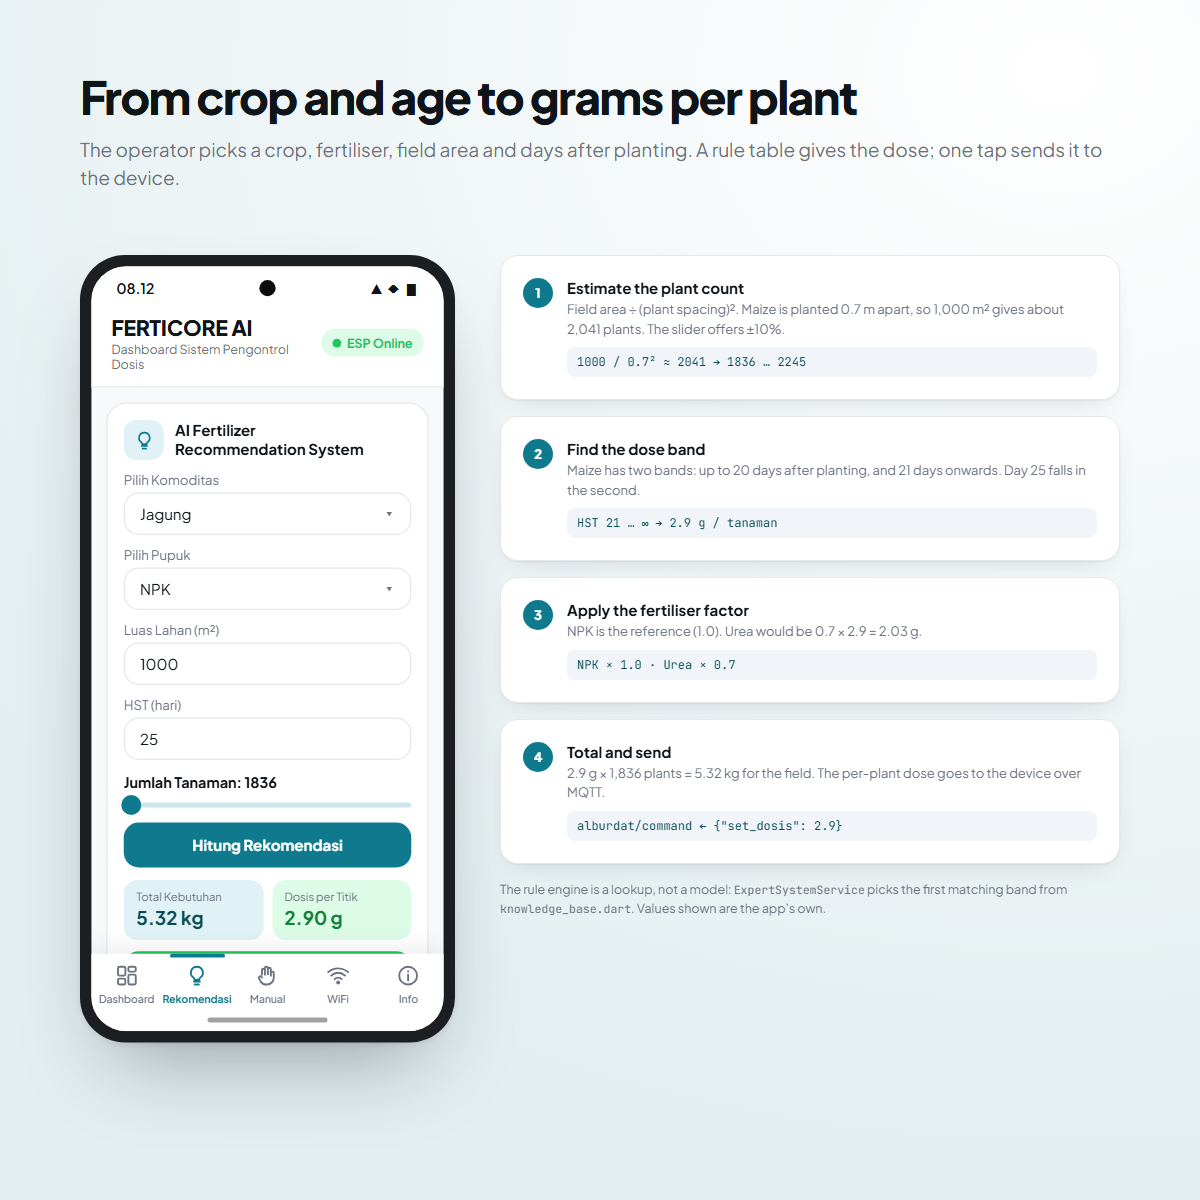
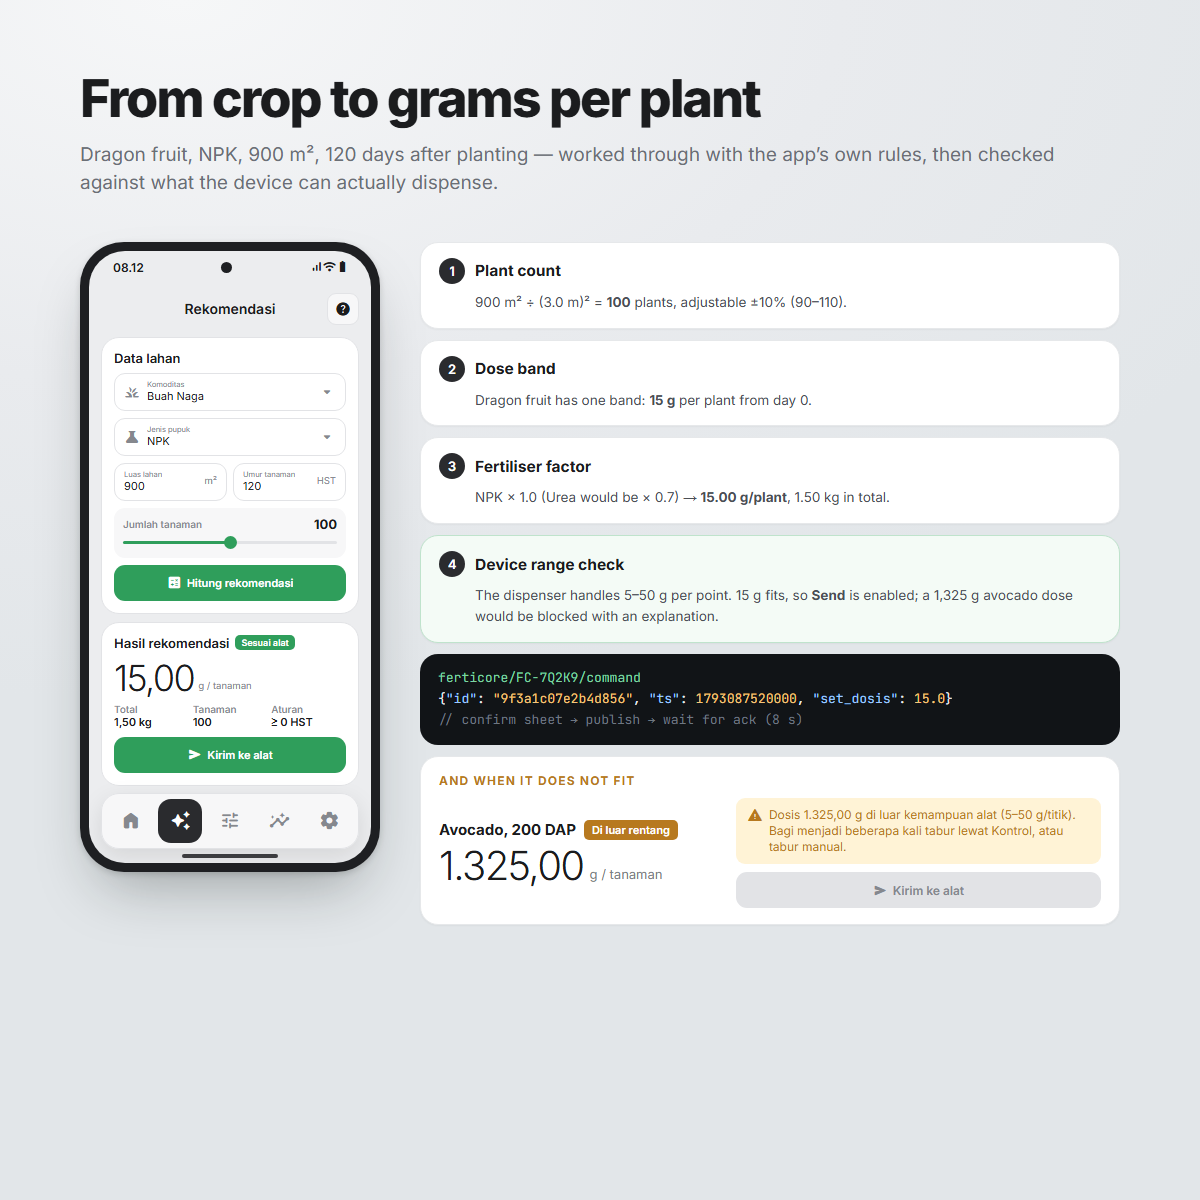
Mengubah asset gambar proyek ferticore

diff --git a/src/data/projects.ts b/src/data/projects.ts
@@ -661,64 +661,70 @@ export const projects: Project[] = [
     repo: 'https://github.com/aamnnr/ferticore-app',
     overview: {
       en: [
-        'Fertiliser is expensive and easy to waste. The rig meters it out by commodity instead of by habit: the operator picks what is being grown, the device works out a dose, and the motor runs for exactly as long as that dose requires.',
-        'The architecture is deliberately server-less. The Flutter app and the ESP32 talk to each other through a public MQTT broker as two peers — there is no back end to keep alive, no database bill, and no single machine whose failure takes the field offline. Operating statistics live in the device’s own EEPROM, so a phone that has been away for a week still finds its history intact.',
-        'The trade is that the message contract has to be exact. Both halves agree on a JSON shape and a topic layout, and every command the app sends has to be one the firmware already understands. Writing both sides is what made that tolerable.',
+        'Fertiliser is expensive and easy to waste. The rig meters it out by commodity instead of by habit: the operator picks what is being grown, the app works out a dose per plant, and the device dispenses exactly that at every point.',
+        'The architecture is still deliberately server-less. The Flutter app and the ESP32 talk to each other through an MQTT broker as two peers — no back end to keep alive, no database bill, and operating statistics stay in the device’s own EEPROM. What changed in version 2 is that the door is no longer open. The first version used a public broker with fixed topics shared by every unit, so anyone who knew the topic could change the dose. Now the broker is configurable, TLS is on by default, credentials sit in the phone’s Keystore or Keychain, and each device lives under its own topic.',
+        'The second change is that a command is not finished when the broker accepts it. Every command carries a random id and a timestamp; the app shows a summary first, publishes, then waits for a status message that echoes the id back. If none arrives within eight seconds the operator is told the command was sent but not confirmed — instead of assuming it worked. The old JSON keys were kept, so the firmware only has to move topics and start acknowledging.',
       ],
       id: [
-        'Pupuk itu mahal dan mudah terbuang. Perangkat ini menakarnya berdasarkan komoditas, bukan kebiasaan: operator memilih tanaman yang digarap, perangkat menghitung dosis, lalu motor berputar tepat selama dosis itu membutuhkannya.',
-        'Arsitekturnya sengaja tanpa server. Aplikasi Flutter dan ESP32 saling berbicara lewat broker MQTT publik sebagai dua peer — tidak ada back end yang harus dijaga tetap hidup, tidak ada tagihan basis data, dan tidak ada satu mesin yang kematiannya membuat lahan terputus. Statistik operasional disimpan di EEPROM perangkat, sehingga ponsel yang seminggu tidak dibuka tetap menemukan riwayatnya utuh.',
-        'Konsekuensinya, kontrak pesan harus tepat. Kedua sisi menyepakati bentuk JSON dan susunan topik, dan setiap perintah yang dikirim aplikasi harus perintah yang memang sudah dimengerti firmware. Menulis kedua sisinya sendiri yang membuat itu bisa dijalani.',
+        'Pupuk itu mahal dan mudah terbuang. Perangkat ini menakarnya berdasarkan komoditas, bukan kebiasaan: operator memilih tanaman yang digarap, aplikasi menghitung dosis per tanaman, lalu alat menabur tepat sebanyak itu di setiap titik.',
+        'Arsitekturnya tetap sengaja tanpa server. Aplikasi Flutter dan ESP32 saling berbicara lewat broker MQTT sebagai dua peer — tidak ada back end yang harus dijaga, tidak ada tagihan basis data, dan statistik operasional tetap tersimpan di EEPROM perangkat. Yang berubah di versi 2: pintunya tidak lagi terbuka. Versi pertama memakai broker publik dengan topik tetap yang sama untuk semua unit, sehingga siapa pun yang tahu topiknya bisa mengubah dosis. Kini broker bisa diatur, TLS aktif bawaan, kredensial disimpan di Keystore atau Keychain ponsel, dan setiap alat punya topiknya sendiri.',
+        'Perubahan kedua: perintah belum selesai hanya karena broker menerimanya. Setiap perintah membawa id acak dan timestamp; aplikasi menampilkan ringkasan dulu, mengirim, lalu menunggu pesan status yang memantulkan id tersebut. Jika tidak datang dalam delapan detik, operator diberi tahu bahwa perintah terkirim tetapi belum dikonfirmasi — bukan dianggap berhasil. Kunci JSON lama dipertahankan, jadi firmware cukup pindah topik dan mulai mengirim konfirmasi.',
       ],
     },
     features: {
       en: [
         'Rule-based dose recommendation for 13 crops by days after planting, for NPK or Urea, with the plant count estimated from field area and spacing.',
-        'Live device status: motor state, current dose, and accumulated statistics.',
-        'Manual override, so the operator can always overrule the recommendation.',
-        'On-device OLED readout for when the phone is not to hand.',
-        'Statistics persisted in EEPROM and survive power loss.',
+        'Doses outside what the dispenser can deliver (5–50 g per point) are blocked with an explanation instead of being sent.',
+        'Every command is reviewed in a summary sheet and confirmed by the device, with a clear “sent, not confirmed yet” state.',
+        'Configurable broker with TLS and credentials; the password is kept in Keystore/Keychain and never shown again.',
+        'Live device status — online, offline, disconnected or not set up — with automatic reconnect that backs off but never gives up.',
+        'Usage statistics from the device with a live chart, plus manual dosing for when the operator overrules the recommendation.',
+        'Onboarding, a searchable in-app guide and FAQ, and a help button on every screen that opens its own section.',
         'One Flutter codebase serving Android, iOS, web and desktop.',
       ],
       id: [
         'Rekomendasi dosis berbasis aturan untuk 13 komoditas menurut HST, untuk NPK atau Urea, dengan jumlah tanaman diperkirakan dari luas lahan dan jarak tanam.',
-        'Status perangkat langsung: keadaan motor, dosis berjalan, dan statistik terkumpul.',
-        'Kendali manual, sehingga operator selalu bisa menolak rekomendasi.',
-        'Tampilan OLED di perangkat untuk saat ponsel tidak di tangan.',
-        'Statistik tersimpan di EEPROM dan bertahan saat listrik padam.',
+        'Dosis di luar kemampuan alat (5–50 g per titik) diblokir dengan penjelasan, bukan dikirim.',
+        'Setiap perintah ditinjau lewat lembar ringkasan dan dikonfirmasi alat, dengan status “terkirim, belum dikonfirmasi” yang jelas.',
+        'Broker bisa diatur dengan TLS dan kredensial; password disimpan di Keystore/Keychain dan tidak pernah ditampilkan ulang.',
+        'Status alat langsung — online, offline, terputus, atau belum diatur — dengan reconnect otomatis yang makin jarang tetapi tidak pernah menyerah.',
+        'Statistik pemakaian dari alat dengan grafik langsung, serta dosis manual saat operator ingin menolak rekomendasi.',
+        'Onboarding, panduan dan FAQ dalam aplikasi yang bisa dicari, serta tombol bantuan di setiap layar yang membuka bagiannya sendiri.',
         'Satu basis kode Flutter melayani Android, iOS, web, dan desktop.',
       ],
     },
     notes: [
-      { k: { en: 'Broker', id: 'Broker' }, v: { en: 'Public MQTT broker on port 1883 (EMQX / Mosquitto)', id: 'Broker MQTT publik pada port 1883 (EMQX / Mosquitto)' } },
+      { k: { en: 'Broker', id: 'Broker' }, v: { en: 'Configurable; TLS on 8883 (WSS 8084 on web), username/password', id: 'Bisa diatur; TLS di 8883 (WSS 8084 di web), username/password' } },
+      { k: { en: 'Topics', id: 'Topik' }, v: { en: 'ferticore/<device-id>/status and /command, one device per topic', id: 'ferticore/<id-alat>/status dan /command, satu alat per topik' } },
+      { k: { en: 'Commands', id: 'Perintah' }, v: { en: 'Random id + timestamp, acknowledged by the device within 8 s', id: 'Id acak + timestamp, dikonfirmasi alat dalam 8 dtk' } },
       { k: { en: 'State', id: 'Status' }, v: { en: 'Provider for app state; EEPROM for device statistics', id: 'Provider untuk status aplikasi; EEPROM untuk statistik perangkat' } },
       { k: { en: 'Back end', id: 'Back end' }, v: { en: 'None — app and device are MQTT peers', id: 'Tidak ada — aplikasi dan perangkat adalah peer MQTT' } },
     ],
     media: [
       {
         src: { en: 'projects/ferticore/en/01-cover.png', id: 'projects/ferticore/id/01-cover.png' }, width: 1600, height: 900,
-        alt: { en: 'FertiCore title with the dashboard on a phone and in a desktop browser, showing a 2.90 g dose and usage statistics.', id: 'Judul FertiCore dengan dasbor di ponsel dan browser desktop, menampilkan dosis 2,90 g dan statistik pemakaian.' },
+        alt: { en: 'FertiCore title with the v2 dashboard on a phone and in a desktop browser: a 15.0 g active dose, device status tiles and a secured broker.', id: 'Judul FertiCore dengan dasbor v2 di ponsel dan browser desktop: dosis aktif 15,0 g, ubin status alat, dan broker yang diamankan.' },
         caption: { en: 'One Flutter codebase on phone, web and desktop. Mockups redrawn from the app with sample values; the app UI is in Indonesian.', id: 'Satu basis kode Flutter di ponsel, web, dan desktop. Mockup digambar ulang dari aplikasi dengan nilai contoh.' },
       },
       {
         src: { en: 'projects/ferticore/en/02-recommendation.png', id: 'projects/ferticore/id/02-recommendation.png' }, width: 1200, height: 1200,
-        alt: { en: 'The recommendation screen for maize, NPK, 1,000 m² and 25 days after planting, next to four steps: plant count, dose band, fertiliser factor, and the MQTT command.', id: 'Layar rekomendasi untuk jagung, NPK, 1.000 m², dan 25 HST, di samping empat langkah: jumlah tanaman, rentang dosis, faktor pupuk, dan perintah MQTT.' },
-        caption: { en: 'From crop and age to grams per plant, worked through with the app’s own numbers.', id: 'Dari tanaman dan umur ke gram per tanaman, dihitung dengan angka dari aplikasi.' },
+        alt: { en: 'The recommendation screen for dragon fruit, NPK, 900 m² and 120 days after planting, next to four steps ending in a device range check, the MQTT command, and a blocked 1,325 g avocado dose.', id: 'Layar rekomendasi untuk buah naga, NPK, 900 m², dan 120 HST, di samping empat langkah yang diakhiri cek rentang alat, perintah MQTT, dan dosis alpukat 1.325 g yang diblokir.' },
+        caption: { en: 'From crop and age to grams per plant — and a dose the device cannot dispense is blocked, not sent.', id: 'Dari tanaman dan umur ke gram per tanaman — dan dosis yang tidak sanggup ditabur alat diblokir, bukan dikirim.' },
       },
       {
         src: { en: 'projects/ferticore/en/03-knowledge-base.png', id: 'projects/ferticore/id/03-knowledge-base.png' }, width: 1200, height: 1200,
-        alt: { en: 'Table of 13 crops with planting spacing and dose bands by days after planting, from maize to sugarcane.', id: 'Tabel 13 komoditas dengan jarak tanam dan rentang dosis menurut HST, dari jagung hingga tebu.' },
-        caption: { en: 'The full knowledge base: one row per crop, one band per growth stage.', id: 'Knowledge base lengkap: satu baris per komoditas, satu rentang per tahap tumbuh.' },
+        alt: { en: 'Table of 13 crops with planting spacing and dose bands by days after planting; bands within the device’s 5–50 g range are highlighted green.', id: 'Tabel 13 komoditas dengan jarak tanam dan rentang dosis menurut HST; rentang yang masuk kemampuan alat 5–50 g ditandai hijau.' },
+        caption: { en: 'The full knowledge base: one row per crop, one band per growth stage, with no gaps between stages.', id: 'Knowledge base lengkap: satu baris per komoditas, satu rentang per tahap tumbuh, tanpa celah antar-tahap.' },
       },
       {
         src: { en: 'projects/ferticore/en/04-mqtt.png', id: 'projects/ferticore/id/04-mqtt.png' }, width: 1200, height: 1200,
-        alt: { en: 'Diagram: Flutter app, public MQTT broker and ESP32 as peers, with the status payload, the three commands, and the three connection states.', id: 'Diagram: aplikasi Flutter, broker MQTT publik, dan ESP32 sebagai peer, dengan payload status, tiga perintah, dan tiga status koneksi.' },
-        caption: { en: 'No server in the middle — and a clear difference between “broker reachable” and “device online”.', id: 'Tanpa server di tengah — dan beda yang jelas antara “broker terjangkau” dan “alat online”.' },
+        alt: { en: 'Diagram: Flutter app, TLS-secured MQTT broker and ESP32 as peers, with per-device topics, the status payload with ack, the three commands with id and timestamp, four connection states, and the command lifecycle.', id: 'Diagram: aplikasi Flutter, broker MQTT ber-TLS, dan ESP32 sebagai peer, dengan topik per alat, payload status ber-ack, tiga perintah ber-id dan timestamp, empat status koneksi, dan alur perintah.' },
+        caption: { en: 'Still no server in the middle — now with TLS, broker credentials, per-device topics and commands the device confirms.', id: 'Tetap tanpa server di tengah — kini dengan TLS, login broker, topik per alat, dan perintah yang dikonfirmasi alat.' },
       },
       {
         src: { en: 'projects/ferticore/en/05-screens.png', id: 'projects/ferticore/id/05-screens.png' }, width: 1200, height: 1200,
-        alt: { en: 'Three phone screens: the dashboard with dose and statistics, manual dosing, and the Wi-Fi reset steps.', id: 'Tiga layar ponsel: dasbor dengan dosis dan statistik, dosis manual, dan langkah reset Wi-Fi.' },
-        caption: { en: 'Monitor, override with a manual dose, or send the device back to Wi-Fi setup.', id: 'Pantau, ambil alih dengan dosis manual, atau kembalikan alat ke setup Wi-Fi.' },
+        alt: { en: 'Three phone screens: manual dosing with a confirmation sheet, statistics with a live chart, and the searchable in-app guide.', id: 'Tiga layar ponsel: dosis manual dengan lembar konfirmasi, statistik dengan grafik langsung, dan panduan dalam aplikasi yang bisa dicari.' },
+        caption: { en: 'Review a dose before it is sent, watch usage build up, and find help on every screen.', id: 'Tinjau dosis sebelum dikirim, pantau pemakaian, dan temukan bantuan di setiap layar.' },
       },
     ],
   },
